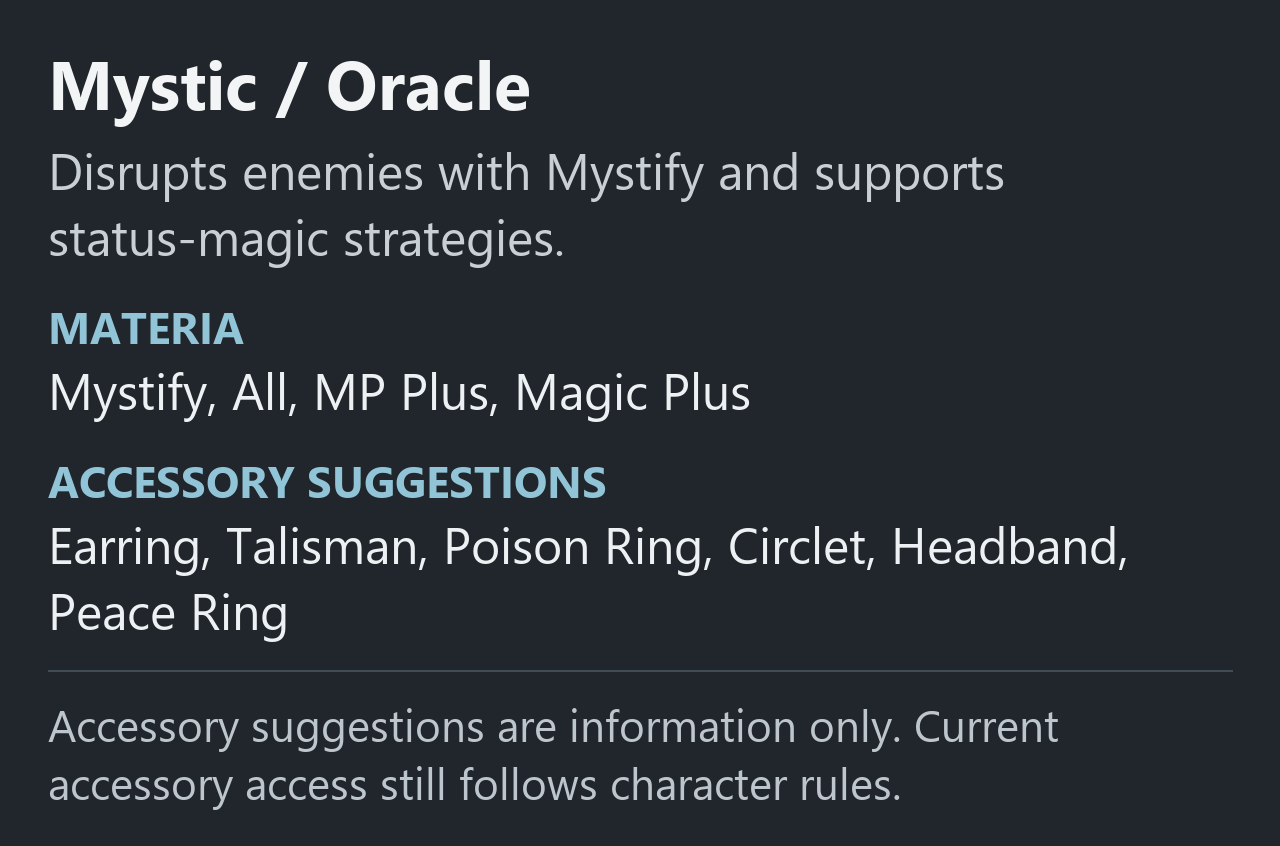
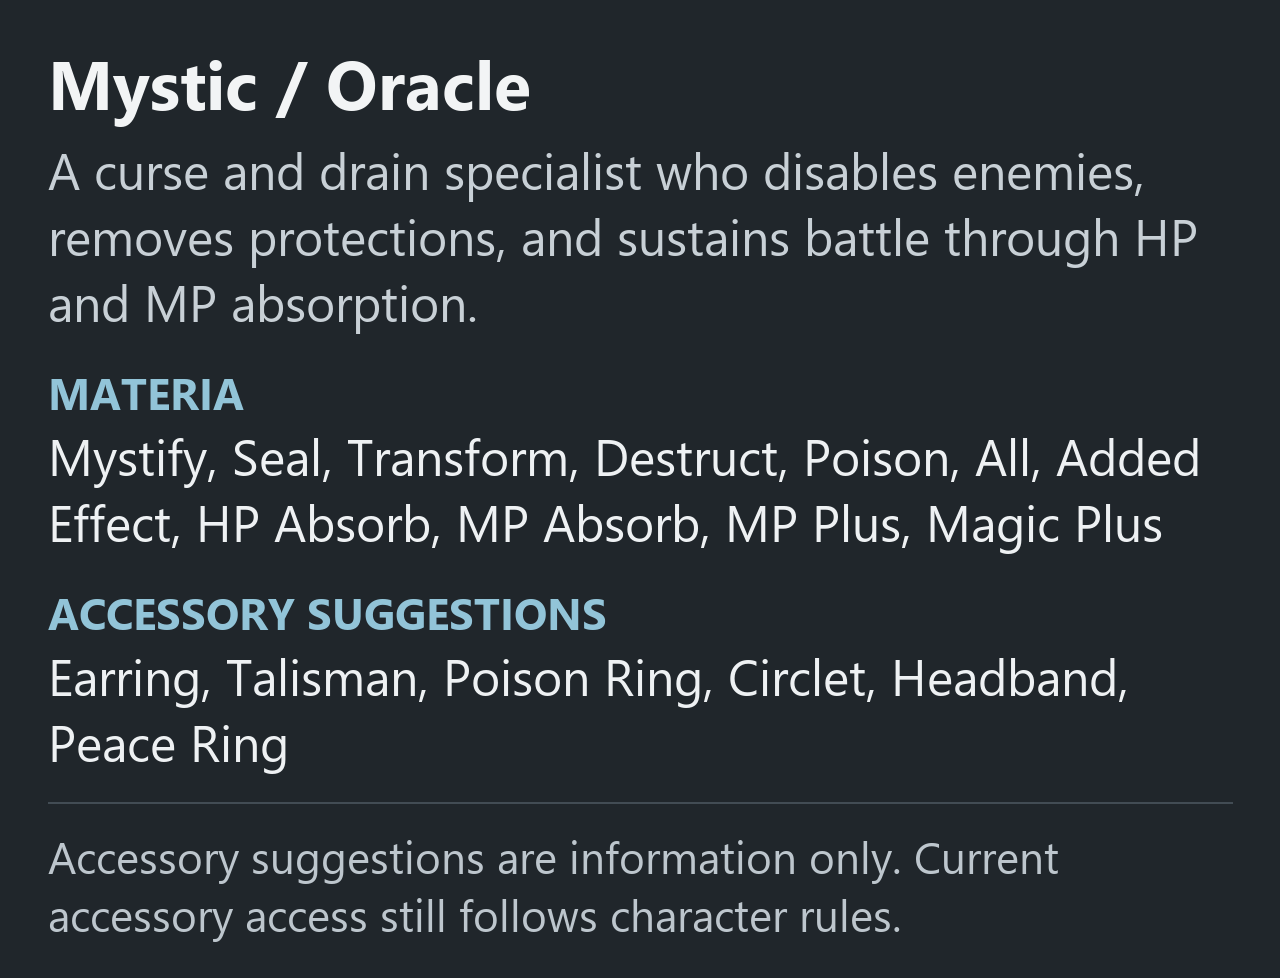
Expand Mystic Oracle with status and draining Materia

Changed region(s): [[0.0312, 0.3688, 0.9375, 0.7991], [0.0312, 0.0615, 0.9375, 0.3381], [0.0312, 0.8298, 0.8438, 0.9527]]

diff --git a/source/rules.generated.h b/source/rules.generated.h
@@ -22,7 +22,7 @@ static const unsigned char CLASS_MATERIA[CLASS_COUNT][256]={
 {1,0,0,1,0,0,0,0,0,0,0,0,0,0,0,0,0,0,0,0,0,0,0,1,0,0,0,0,0,1,0,0,0,0,0,0,0,1,0,0,0,0,0,0,0,0,0,0,0,1,1,0,1,1,1,0,0,0,0,0,0,0,1,0,0,0,0,0,0,0,0,0,0,0,0,0,0,0,0,0,0,0,0,0,0,0,0,0,0,0,0,0,0,0,0,0,0,0,0,0,0,0,0,0,0,0,0,0,0,0,0,0,0,0,0,0,0,0,0,0,0,0,0,0,0,0,0,0,0,0,0,0,0,0,0,0,0,0,0,0,0,0,0,0,0,0,0,0,0,0,0,0,0,0,0,0,0,0,0,0,0,0,0,0,0,0,0,0,0,0,0,0,0,0,0,0,0,0,0,0,0,0,0,0,0,0,0,0,0,0,0,0,0,0,0,0,0,0,0,0,0,0,0,0,0,0,0,0,0,0,0,0,0,0,0,0,0,0,0,0,0,0,0,0,0,0,0,0,0,0,0,0,0,0,0,0,0,0,0,0,0,0,0,0,0,0,0,0,0,0,0,0,0,0,0,0},
 {0,1,0,0,0,0,0,0,0,0,0,0,0,0,0,0,0,0,0,0,0,0,0,0,1,0,0,0,0,0,0,0,0,0,0,0,0,1,0,0,0,1,0,1,0,0,0,0,1,0,0,0,0,0,0,0,0,0,0,0,0,0,0,0,0,0,0,0,0,0,0,0,0,0,0,0,0,0,0,0,0,0,0,0,0,0,0,0,0,0,0,0,0,0,0,0,0,0,0,0,0,0,0,0,0,0,0,0,0,0,0,0,0,0,0,0,0,0,0,0,0,0,0,0,0,0,0,0,0,0,0,0,0,0,0,0,0,0,0,0,0,0,0,0,0,0,0,0,0,0,0,0,0,0,0,0,0,0,0,0,0,0,0,0,0,0,0,0,0,0,0,0,0,0,0,0,0,0,0,0,0,0,0,0,0,0,0,0,0,0,0,0,0,0,0,0,0,0,0,0,0,0,0,0,0,0,0,0,0,0,0,0,0,0,0,0,0,0,0,0,0,0,0,0,0,0,0,0,0,0,0,0,0,0,0,0,0,0,0,0,0,0,0,0,0,0,0,0,0,0,0,0,0,0,0,0},
 {0,0,0,0,0,0,0,0,0,0,0,0,0,0,0,0,0,0,0,0,0,1,0,1,0,0,0,0,0,0,0,0,0,0,0,0,0,0,0,0,1,0,0,0,0,0,0,0,0,0,0,0,0,1,1,1,0,0,0,0,1,0,0,0,0,0,0,0,0,0,0,0,0,0,0,0,0,0,0,0,0,0,0,0,0,0,0,0,0,0,0,0,0,0,0,0,0,0,0,0,0,0,0,0,0,0,0,0,0,0,0,0,0,0,0,0,0,0,0,0,0,0,0,0,0,0,0,0,0,0,0,0,0,0,0,0,0,0,0,0,0,0,0,0,0,0,0,0,0,0,0,0,0,0,0,0,0,0,0,0,0,0,0,0,0,0,0,0,0,0,0,0,0,0,0,0,0,0,0,0,0,0,0,0,0,0,0,0,0,0,0,0,0,0,0,0,0,0,0,0,0,0,0,0,0,0,0,0,0,0,0,0,0,0,0,0,0,0,0,0,0,0,0,0,0,0,0,0,0,0,0,0,0,0,0,0,0,0,0,0,0,0,0,0,0,0,0,0,0,0,0,0,0,0,0,0},
-{1,0,0,1,0,0,0,0,0,0,0,0,0,0,0,0,0,0,0,0,0,0,0,1,0,0,0,0,0,0,0,0,0,0,0,0,0,0,0,0,0,0,0,0,0,0,0,0,0,0,0,0,0,0,0,0,0,1,0,0,0,0,0,0,0,0,0,0,0,0,0,0,0,0,0,0,0,0,0,0,0,0,0,0,0,0,0,0,0,0,0,0,0,0,0,0,0,0,0,0,0,0,0,0,0,0,0,0,0,0,0,0,0,0,0,0,0,0,0,0,0,0,0,0,0,0,0,0,0,0,0,0,0,0,0,0,0,0,0,0,0,0,0,0,0,0,0,0,0,0,0,0,0,0,0,0,0,0,0,0,0,0,0,0,0,0,0,0,0,0,0,0,0,0,0,0,0,0,0,0,0,0,0,0,0,0,0,0,0,0,0,0,0,0,0,0,0,0,0,0,0,0,0,0,0,0,0,0,0,0,0,0,0,0,0,0,0,0,0,0,0,0,0,0,0,0,0,0,0,0,0,0,0,0,0,0,0,0,0,0,0,0,0,0,0,0,0,0,0,0,0,0,0,0,0,0},
+{1,0,0,1,0,0,0,0,0,0,0,0,0,0,0,0,0,0,0,0,0,0,0,1,0,0,0,1,1,0,1,0,0,0,0,0,0,0,0,0,0,0,0,0,0,0,0,0,0,0,0,0,0,0,0,0,1,1,1,0,1,0,0,0,0,0,0,0,1,0,0,0,0,0,0,0,0,0,0,0,0,0,0,0,0,0,0,0,0,0,0,0,0,0,0,0,0,0,0,0,0,0,0,0,0,0,0,0,0,0,0,0,0,0,0,0,0,0,0,0,0,0,0,0,0,0,0,0,0,0,0,0,0,0,0,0,0,0,0,0,0,0,0,0,0,0,0,0,0,0,0,0,0,0,0,0,0,0,0,0,0,0,0,0,0,0,0,0,0,0,0,0,0,0,0,0,0,0,0,0,0,0,0,0,0,0,0,0,0,0,0,0,0,0,0,0,0,0,0,0,0,0,0,0,0,0,0,0,0,0,0,0,0,0,0,0,0,0,0,0,0,0,0,0,0,0,0,0,0,0,0,0,0,0,0,0,0,0,0,0,0,0,0,0,0,0,0,0,0,0,0,0,0,0,0,0},
 {1,0,0,1,0,0,0,0,0,0,0,0,0,0,0,0,0,0,0,1,0,0,0,1,0,1,1,0,0,0,0,0,0,0,0,1,0,0,0,0,0,0,0,0,0,0,0,0,0,1,1,1,1,1,1,1,1,1,1,1,1,1,1,0,1,1,0,0,1,1,1,1,1,1,0,0,0,0,0,0,0,0,0,0,0,0,0,0,0,0,0,0,0,0,0,0,0,0,0,0,0,0,0,0,0,0,0,0,0,0,0,0,0,0,0,0,0,0,0,0,0,0,0,0,0,0,0,0,0,0,0,0,0,0,0,0,0,0,0,0,0,0,0,0,0,0,0,0,0,0,0,0,0,0,0,0,0,0,0,0,0,0,0,0,0,0,0,0,0,0,0,0,0,0,0,0,0,0,0,0,0,0,0,0,0,0,0,0,0,0,0,0,0,0,0,0,0,0,0,0,0,0,0,0,0,0,0,0,0,0,0,0,0,0,0,0,0,0,0,0,0,0,0,0,0,0,0,0,0,0,0,0,0,0,0,0,0,0,0,0,0,0,0,0,0,0,0,0,0,0,0,0,0,0,0,0},
 {0,1,0,0,0,0,0,0,0,0,0,0,0,1,0,0,1,0,0,0,0,0,0,0,0,0,0,0,0,0,0,0,0,1,0,0,0,0,0,0,0,1,0,0,0,0,0,0,0,0,0,0,0,0,0,0,0,0,0,0,0,0,0,0,0,0,0,0,0,0,0,0,0,0,0,0,0,0,0,0,0,0,0,0,0,0,0,0,0,0,0,0,0,0,0,0,0,0,0,0,0,0,0,0,0,0,0,0,0,0,0,0,0,0,0,0,0,0,0,0,0,0,0,0,0,0,0,0,0,0,0,0,0,0,0,0,0,0,0,0,0,0,0,0,0,0,0,0,0,0,0,0,0,0,0,0,0,0,0,0,0,0,0,0,0,0,0,0,0,0,0,0,0,0,0,0,0,0,0,0,0,0,0,0,0,0,0,0,0,0,0,0,0,0,0,0,0,0,0,0,0,0,0,0,0,0,0,0,0,0,0,0,0,0,0,0,0,0,0,0,0,0,0,0,0,0,0,0,0,0,0,0,0,0,0,0,0,0,0,0,0,0,0,0,0,0,0,0,0,0,0,0,0,0,0,0},
 {0,1,0,0,0,0,0,0,0,0,0,0,0,0,0,0,1,0,0,0,0,0,0,0,0,0,0,0,0,0,0,0,0,0,0,0,0,0,0,0,0,0,0,0,0,0,0,0,0,0,0,0,0,1,1,0,0,0,0,0,0,0,1,0,0,0,0,0,0,0,0,1,0,0,0,0,0,0,0,0,0,0,0,0,0,0,0,0,0,0,0,0,0,0,0,0,0,0,0,0,0,0,0,0,0,0,0,0,0,0,0,0,0,0,0,0,0,0,0,0,0,0,0,0,0,0,0,0,0,0,0,0,0,0,0,0,0,0,0,0,0,0,0,0,0,0,0,0,0,0,0,0,0,0,0,0,0,0,0,0,0,0,0,0,0,0,0,0,0,0,0,0,0,0,0,0,0,0,0,0,0,0,0,0,0,0,0,0,0,0,0,0,0,0,0,0,0,0,0,0,0,0,0,0,0,0,0,0,0,0,0,0,0,0,0,0,0,0,0,0,0,0,0,0,0,0,0,0,0,0,0,0,0,0,0,0,0,0,0,0,0,0,0,0,0,0,0,0,0,0,0,0,0,0,0,0},
